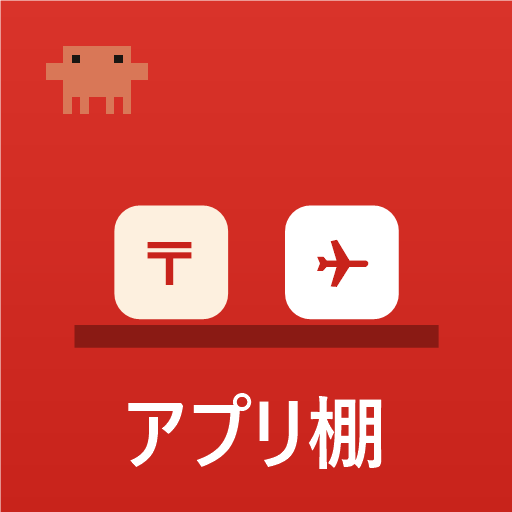
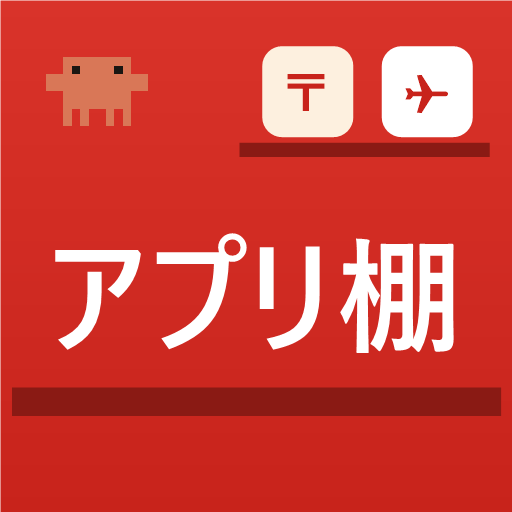
アイコンの「アプリ棚」を大きく、URLをコピーしたときの使い方を追加

diff --git a/index.html b/index.html
@@ -8,9 +8,9 @@
 <meta name="mobile-web-app-capable" content="yes">
 <meta name="apple-mobile-web-app-title" content="アプリ棚">
 <meta name="format-detection" content="telephone=no">
-<link rel="apple-touch-icon" href="icon-180.png?v=5">
-<link rel="icon" href="icon-192.png?v=5">
-<link rel="manifest" href="manifest.webmanifest?v=5">
+<link rel="apple-touch-icon" href="icon-180.png?v=6">
+<link rel="icon" href="icon-192.png?v=6">
+<link rel="manifest" href="manifest.webmanifest?v=6">
 <title>アプリ棚</title>
 <link rel="preconnect" href="https://fonts.googleapis.com">
 <link rel="preconnect" href="https://fonts.gstatic.com" crossorigin>
@@ -102,20 +102,20 @@ footer{color:var(--muted);font-size:.75rem;text-align:right}
       <h2>近畿発 運賃表 2026.10.1</h2>
       <p class="desc">近畿発のゆうパック運賃表です。2026年10月1日からの新料金に対応しています。</p>
       <div class="actions">
-        <a class="btn primary" href="https://aaiuioo-maker.github.io/kinki-unchin-2/?v=1" target="_blank" rel="noopener">開く</a>
-        <button class="btn copy" type="button" id="copy-kinki2" data-url="https://aaiuioo-maker.github.io/kinki-unchin-2/?v=1">URLをコピー</button>
+        <a class="btn primary" href="https://aaiuioo-maker.github.io/kinki-unchin-2/?v=1&amp;openExternalBrowser=1" target="_blank" rel="noopener">開く</a>
+        <button class="btn copy" type="button" id="copy-kinki2" data-url="https://aaiuioo-maker.github.io/kinki-unchin-2/?v=1&amp;openExternalBrowser=1">URLをコピー</button>
       </div>
-      <div class="url">https://aaiuioo-maker.github.io/kinki-unchin-2/?v=1</div>
+      <div class="url">https://aaiuioo-maker.github.io/kinki-unchin-2/?v=1&amp;openExternalBrowser=1</div>
     </li>
     <li class="app">
       <img class="ico" src="icons/kokusai2.png" alt="">
       <h2>国際小包料金表</h2>
       <p class="desc">EMS・航空便・船便の国際小包料金表です。</p>
       <div class="actions">
-        <a class="btn primary" href="https://aaiuioo-maker.github.io/kokusai-kozutsumi-2/?v=1" target="_blank" rel="noopener">開く</a>
-        <button class="btn copy" type="button" id="copy-kokusai2" data-url="https://aaiuioo-maker.github.io/kokusai-kozutsumi-2/?v=1">URLをコピー</button>
+        <a class="btn primary" href="https://aaiuioo-maker.github.io/kokusai-kozutsumi-2/?v=1&amp;openExternalBrowser=1" target="_blank" rel="noopener">開く</a>
+        <button class="btn copy" type="button" id="copy-kokusai2" data-url="https://aaiuioo-maker.github.io/kokusai-kozutsumi-2/?v=1&amp;openExternalBrowser=1">URLをコピー</button>
       </div>
-      <div class="url">https://aaiuioo-maker.github.io/kokusai-kozutsumi-2/?v=1</div>
+      <div class="url">https://aaiuioo-maker.github.io/kokusai-kozutsumi-2/?v=1&amp;openExternalBrowser=1</div>
     </li>
   </ul>
 
@@ -133,11 +133,18 @@ footer{color:var(--muted);font-size:.75rem;text-align:right}
       <li>右上の <kbd>︙</kbd> を押す</li>
       <li><kbd>ホーム画面に追加</kbd> を選び、「追加」を押す</li>
     </ol>
+    <h3>「URLをコピー」を押したとき</h3>
+    <ol>
+      <li>「URLをコピー」を押す（ボタンに「コピーしました」と出ます）</li>
+      <li>Safari や Chrome を開き、上（または下）のアドレス欄を長押しして <kbd>ペーストして開く</kbd> を押す</li>
+      <li>アプリが開いたら、上の手順でホーム画面に追加する</li>
+    </ol>
+    <p class="line">人に送るときは、LINE やメールの入力欄を長押しして <kbd>ペースト</kbd> を押し、そのまま送ってください。コピーされる URL は LINE で開いてもブラウザで開くようになっています。</p>
     <h3>LINE で送られてきたとき</h3>
     <p class="line">LINE の中で開くと、ホーム画面に追加できません。右上の <kbd>︙</kbd>（iPhone は下の <kbd>共有</kbd>）から <kbd>ブラウザで開く</kbd> を選び、Chrome や Safari で開いてから追加してください。</p>
     <p class="note">このページ（アプリ棚）も同じやり方でホーム画面に追加できます。</p>
   </section>
-  <footer>v5</footer>
+  <footer>v6</footer>
 </div>
 
 <script>
